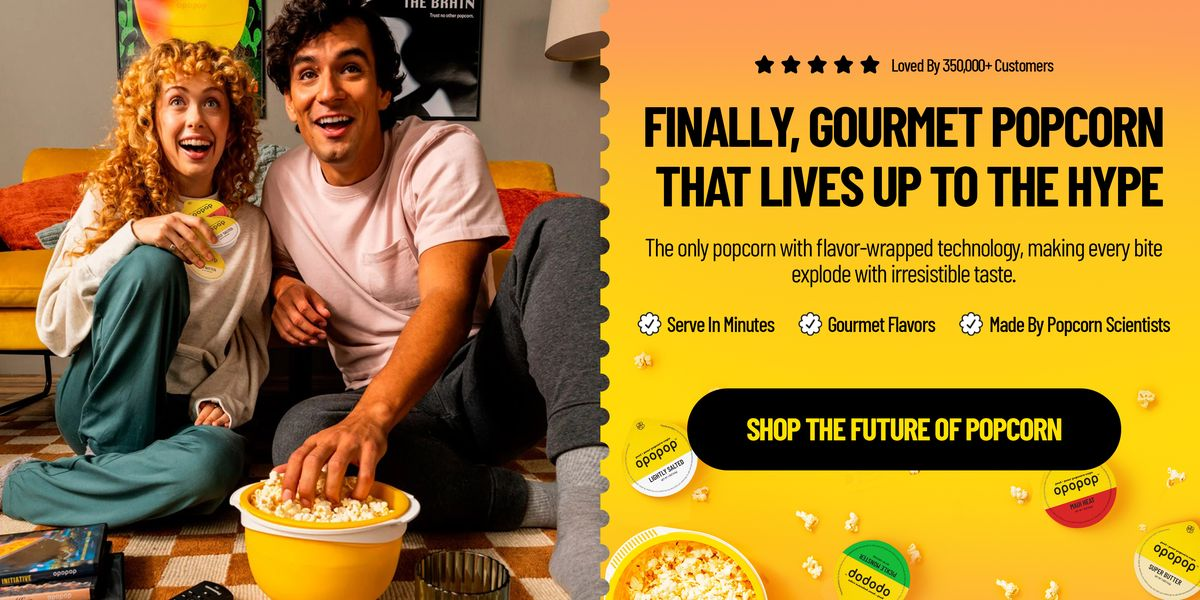
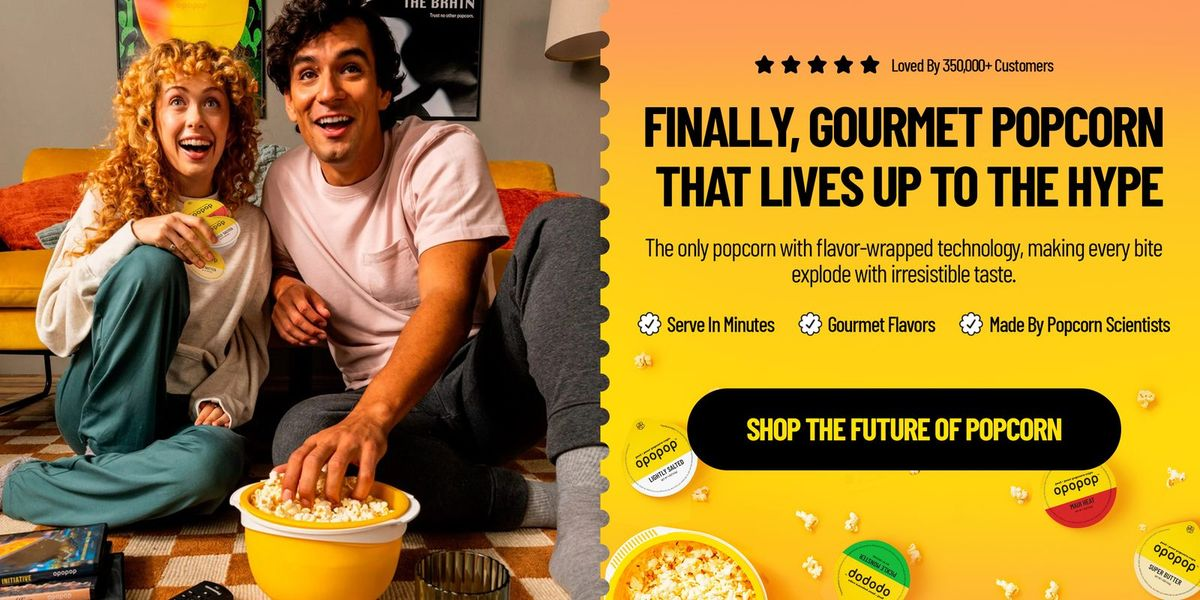
Apply speed optimizations to new blog posts; rebuild image variants
After merging main: the 8 newly published blog posts get the same
treatment as every other page (no GSAP, deferred main.js?v=3,
non-blocking Google Fonts, html.js class, style.css?v=3). Responsive
WebP/JPEG variants for dormeo, mam, natures-answer and opopop are
rebuilt from main's recompressed originals so the two never drift.

Claude-Session: https://claude.ai/code/session_01LJQn5neykbJh5h4xGdqTjh

diff --git a/blog/amazon-black-friday-cyber-monday-deadlines.html b/blog/amazon-black-friday-cyber-monday-deadlines.html
@@ -3,6 +3,7 @@
 <head>
 <meta charset="UTF-8">
 <meta name="viewport" content="width=device-width, initial-scale=1.0">
+<script>document.documentElement.classList.add('js');</script>
 
 <!-- Google tag (gtag.js) -->
 <script async src="https://www.googletagmanager.com/gtag/js?id=G-JSRFREK2J3"></script>
@@ -108,10 +109,12 @@ src="https://www.facebook.com/tr?id=779041874461329&ev=PageView&noscript=1"
 </script>
 <link rel="preconnect" href="https://fonts.googleapis.com">
 <link rel="preconnect" href="https://fonts.gstatic.com" crossorigin>
-<link href="https://fonts.googleapis.com/css2?family=Space+Grotesk:wght@500;600;700&family=Inter:wght@400;500;600;700&display=swap" rel="stylesheet">
+<link rel="preload" as="style" href="https://fonts.googleapis.com/css2?family=Space+Grotesk:wght@500;600;700&family=Inter:wght@400;500;600;700&display=swap">
+<link rel="stylesheet" href="https://fonts.googleapis.com/css2?family=Space+Grotesk:wght@500;600;700&family=Inter:wght@400;500;600;700&display=swap" media="print" onload="this.media='all'">
+<noscript><link rel="stylesheet" href="https://fonts.googleapis.com/css2?family=Space+Grotesk:wght@500;600;700&family=Inter:wght@400;500;600;700&display=swap"></noscript>
 <link rel="icon" type="image/svg+xml" href="../assets/brand/mark.svg">
 <link rel="icon" type="image/png" href="../assets/brand/favicon-32.png">
-<link rel="stylesheet" href="../css/style.css?v=2">
+<link rel="stylesheet" href="../css/style.css?v=3">
 </head>
 <body>
 
@@ -208,8 +211,6 @@ src="https://www.facebook.com/tr?id=779041874461329&ev=PageView&noscript=1"
   </div>
 </footer>
 
-<script src="https://cdnjs.cloudflare.com/ajax/libs/gsap/3.12.5/gsap.min.js"></script>
-<script src="https://cdnjs.cloudflare.com/ajax/libs/gsap/3.12.5/ScrollTrigger.min.js"></script>
-<script src="../js/main.js"></script>
+<script src="../js/main.js?v=3" defer></script>
 </body>
 </html>

diff --git a/blog/amazon-product-launch-honeymoon-period.html b/blog/amazon-product-launch-honeymoon-period.html
@@ -3,6 +3,7 @@
 <head>
 <meta charset="UTF-8">
 <meta name="viewport" content="width=device-width, initial-scale=1.0">
+<script>document.documentElement.classList.add('js');</script>
 
 <!-- Google tag (gtag.js) -->
 <script async src="https://www.googletagmanager.com/gtag/js?id=G-JSRFREK2J3"></script>
@@ -108,10 +109,12 @@ src="https://www.facebook.com/tr?id=779041874461329&ev=PageView&noscript=1"
 </script>
 <link rel="preconnect" href="https://fonts.googleapis.com">
 <link rel="preconnect" href="https://fonts.gstatic.com" crossorigin>
-<link href="https://fonts.googleapis.com/css2?family=Space+Grotesk:wght@500;600;700&family=Inter:wght@400;500;600;700&display=swap" rel="stylesheet">
+<link rel="preload" as="style" href="https://fonts.googleapis.com/css2?family=Space+Grotesk:wght@500;600;700&family=Inter:wght@400;500;600;700&display=swap">
+<link rel="stylesheet" href="https://fonts.googleapis.com/css2?family=Space+Grotesk:wght@500;600;700&family=Inter:wght@400;500;600;700&display=swap" media="print" onload="this.media='all'">
+<noscript><link rel="stylesheet" href="https://fonts.googleapis.com/css2?family=Space+Grotesk:wght@500;600;700&family=Inter:wght@400;500;600;700&display=swap"></noscript>
 <link rel="icon" type="image/svg+xml" href="../assets/brand/mark.svg">
 <link rel="icon" type="image/png" href="../assets/brand/favicon-32.png">
-<link rel="stylesheet" href="../css/style.css?v=2">
+<link rel="stylesheet" href="../css/style.css?v=3">
 </head>
 <body>
 
@@ -210,8 +213,6 @@ src="https://www.facebook.com/tr?id=779041874461329&ev=PageView&noscript=1"
   </div>
 </footer>
 
-<script src="https://cdnjs.cloudflare.com/ajax/libs/gsap/3.12.5/gsap.min.js"></script>
-<script src="https://cdnjs.cloudflare.com/ajax/libs/gsap/3.12.5/ScrollTrigger.min.js"></script>
-<script src="../js/main.js"></script>
+<script src="../js/main.js?v=3" defer></script>
 </body>
 </html>

diff --git a/blog/amazon-acos-vs-tacos-reporting.html b/blog/amazon-acos-vs-tacos-reporting.html
@@ -3,6 +3,7 @@
 <head>
 <meta charset="UTF-8">
 <meta name="viewport" content="width=device-width, initial-scale=1.0">
+<script>document.documentElement.classList.add('js');</script>
 
 <!-- Google tag (gtag.js) -->
 <script async src="https://www.googletagmanager.com/gtag/js?id=G-JSRFREK2J3"></script>
@@ -93,10 +94,12 @@ src="https://www.facebook.com/tr?id=779041874461329&ev=PageView&noscript=1"
 </script>
 <link rel="preconnect" href="https://fonts.googleapis.com">
 <link rel="preconnect" href="https://fonts.gstatic.com" crossorigin>
-<link href="https://fonts.googleapis.com/css2?family=Space+Grotesk:wght@500;600;700&family=Inter:wght@400;500;600;700&display=swap" rel="stylesheet">
+<link rel="preload" as="style" href="https://fonts.googleapis.com/css2?family=Space+Grotesk:wght@500;600;700&family=Inter:wght@400;500;600;700&display=swap">
+<link rel="stylesheet" href="https://fonts.googleapis.com/css2?family=Space+Grotesk:wght@500;600;700&family=Inter:wght@400;500;600;700&display=swap" media="print" onload="this.media='all'">
+<noscript><link rel="stylesheet" href="https://fonts.googleapis.com/css2?family=Space+Grotesk:wght@500;600;700&family=Inter:wght@400;500;600;700&display=swap"></noscript>
 <link rel="icon" type="image/svg+xml" href="../assets/brand/mark.svg">
 <link rel="icon" type="image/png" href="../assets/brand/favicon-32.png">
-<link rel="stylesheet" href="../css/style.css?v=2">
+<link rel="stylesheet" href="../css/style.css?v=3">
 </head>
 <body>
 
@@ -196,8 +199,6 @@ src="https://www.facebook.com/tr?id=779041874461329&ev=PageView&noscript=1"
   </div>
 </footer>
 
-<script src="https://cdnjs.cloudflare.com/ajax/libs/gsap/3.12.5/gsap.min.js"></script>
-<script src="https://cdnjs.cloudflare.com/ajax/libs/gsap/3.12.5/ScrollTrigger.min.js"></script>
-<script src="../js/main.js"></script>
+<script src="../js/main.js?v=3" defer></script>
 </body>
 </html>

diff --git a/blog/amazon-dsp-when-its-worth-it.html b/blog/amazon-dsp-when-its-worth-it.html
@@ -3,6 +3,7 @@
 <head>
 <meta charset="UTF-8">
 <meta name="viewport" content="width=device-width, initial-scale=1.0">
+<script>document.documentElement.classList.add('js');</script>
 
 <!-- Google tag (gtag.js) -->
 <script async src="https://www.googletagmanager.com/gtag/js?id=G-JSRFREK2J3"></script>
@@ -93,10 +94,12 @@ src="https://www.facebook.com/tr?id=779041874461329&ev=PageView&noscript=1"
 </script>
 <link rel="preconnect" href="https://fonts.googleapis.com">
 <link rel="preconnect" href="https://fonts.gstatic.com" crossorigin>
-<link href="https://fonts.googleapis.com/css2?family=Space+Grotesk:wght@500;600;700&family=Inter:wght@400;500;600;700&display=swap" rel="stylesheet">
+<link rel="preload" as="style" href="https://fonts.googleapis.com/css2?family=Space+Grotesk:wght@500;600;700&family=Inter:wght@400;500;600;700&display=swap">
+<link rel="stylesheet" href="https://fonts.googleapis.com/css2?family=Space+Grotesk:wght@500;600;700&family=Inter:wght@400;500;600;700&display=swap" media="print" onload="this.media='all'">
+<noscript><link rel="stylesheet" href="https://fonts.googleapis.com/css2?family=Space+Grotesk:wght@500;600;700&family=Inter:wght@400;500;600;700&display=swap"></noscript>
 <link rel="icon" type="image/svg+xml" href="../assets/brand/mark.svg">
 <link rel="icon" type="image/png" href="../assets/brand/favicon-32.png">
-<link rel="stylesheet" href="../css/style.css?v=2">
+<link rel="stylesheet" href="../css/style.css?v=3">
 </head>
 <body>
 
@@ -194,8 +197,6 @@ src="https://www.facebook.com/tr?id=779041874461329&ev=PageView&noscript=1"
   </div>
 </footer>
 
-<script src="https://cdnjs.cloudflare.com/ajax/libs/gsap/3.12.5/gsap.min.js"></script>
-<script src="https://cdnjs.cloudflare.com/ajax/libs/gsap/3.12.5/ScrollTrigger.min.js"></script>
-<script src="../js/main.js"></script>
+<script src="../js/main.js?v=3" defer></script>
 </body>
 </html>

diff --git a/blog/amazon-q4-ad-pacing-strategy.html b/blog/amazon-q4-ad-pacing-strategy.html
@@ -3,6 +3,7 @@
 <head>
 <meta charset="UTF-8">
 <meta name="viewport" content="width=device-width, initial-scale=1.0">
+<script>document.documentElement.classList.add('js');</script>
 
 <!-- Google tag (gtag.js) -->
 <script async src="https://www.googletagmanager.com/gtag/js?id=G-JSRFREK2J3"></script>
@@ -93,10 +94,12 @@ src="https://www.facebook.com/tr?id=779041874461329&ev=PageView&noscript=1"
 </script>
 <link rel="preconnect" href="https://fonts.googleapis.com">
 <link rel="preconnect" href="https://fonts.gstatic.com" crossorigin>
-<link href="https://fonts.googleapis.com/css2?family=Space+Grotesk:wght@500;600;700&family=Inter:wght@400;500;600;700&display=swap" rel="stylesheet">
+<link rel="preload" as="style" href="https://fonts.googleapis.com/css2?family=Space+Grotesk:wght@500;600;700&family=Inter:wght@400;500;600;700&display=swap">
+<link rel="stylesheet" href="https://fonts.googleapis.com/css2?family=Space+Grotesk:wght@500;600;700&family=Inter:wght@400;500;600;700&display=swap" media="print" onload="this.media='all'">
+<noscript><link rel="stylesheet" href="https://fonts.googleapis.com/css2?family=Space+Grotesk:wght@500;600;700&family=Inter:wght@400;500;600;700&display=swap"></noscript>
 <link rel="icon" type="image/svg+xml" href="../assets/brand/mark.svg">
 <link rel="icon" type="image/png" href="../assets/brand/favicon-32.png">
-<link rel="stylesheet" href="../css/style.css?v=2">
+<link rel="stylesheet" href="../css/style.css?v=3">
 </head>
 <body>
 
@@ -195,8 +198,6 @@ src="https://www.facebook.com/tr?id=779041874461329&ev=PageView&noscript=1"
   </div>
 </footer>
 
-<script src="https://cdnjs.cloudflare.com/ajax/libs/gsap/3.12.5/gsap.min.js"></script>
-<script src="https://cdnjs.cloudflare.com/ajax/libs/gsap/3.12.5/ScrollTrigger.min.js"></script>
-<script src="../js/main.js"></script>
+<script src="../js/main.js?v=3" defer></script>
 </body>
 </html>

diff --git a/blog/amazon-repeat-purchase-strategy.html b/blog/amazon-repeat-purchase-strategy.html
@@ -3,6 +3,7 @@
 <head>
 <meta charset="UTF-8">
 <meta name="viewport" content="width=device-width, initial-scale=1.0">
+<script>document.documentElement.classList.add('js');</script>
 
 <!-- Google tag (gtag.js) -->
 <script async src="https://www.googletagmanager.com/gtag/js?id=G-JSRFREK2J3"></script>
@@ -93,10 +94,12 @@ src="https://www.facebook.com/tr?id=779041874461329&ev=PageView&noscript=1"
 </script>
 <link rel="preconnect" href="https://fonts.googleapis.com">
 <link rel="preconnect" href="https://fonts.gstatic.com" crossorigin>
-<link href="https://fonts.googleapis.com/css2?family=Space+Grotesk:wght@500;600;700&family=Inter:wght@400;500;600;700&display=swap" rel="stylesheet">
+<link rel="preload" as="style" href="https://fonts.googleapis.com/css2?family=Space+Grotesk:wght@500;600;700&family=Inter:wght@400;500;600;700&display=swap">
+<link rel="stylesheet" href="https://fonts.googleapis.com/css2?family=Space+Grotesk:wght@500;600;700&family=Inter:wght@400;500;600;700&display=swap" media="print" onload="this.media='all'">
+<noscript><link rel="stylesheet" href="https://fonts.googleapis.com/css2?family=Space+Grotesk:wght@500;600;700&family=Inter:wght@400;500;600;700&display=swap"></noscript>
 <link rel="icon" type="image/svg+xml" href="../assets/brand/mark.svg">
 <link rel="icon" type="image/png" href="../assets/brand/favicon-32.png">
-<link rel="stylesheet" href="../css/style.css?v=2">
+<link rel="stylesheet" href="../css/style.css?v=3">
 </head>
 <body>
 
@@ -194,8 +197,6 @@ src="https://www.facebook.com/tr?id=779041874461329&ev=PageView&noscript=1"
   </div>
 </footer>
 
-<script src="https://cdnjs.cloudflare.com/ajax/libs/gsap/3.12.5/gsap.min.js"></script>
-<script src="https://cdnjs.cloudflare.com/ajax/libs/gsap/3.12.5/ScrollTrigger.min.js"></script>
-<script src="../js/main.js"></script>
+<script src="../js/main.js?v=3" defer></script>
 </body>
 </html>

diff --git a/blog/what-a-stockout-taught-me-about-amazon.html b/blog/what-a-stockout-taught-me-about-amazon.html
@@ -3,6 +3,7 @@
 <head>
 <meta charset="UTF-8">
 <meta name="viewport" content="width=device-width, initial-scale=1.0">
+<script>document.documentElement.classList.add('js');</script>
 
 <!-- Google tag (gtag.js) -->
 <script async src="https://www.googletagmanager.com/gtag/js?id=G-JSRFREK2J3"></script>
@@ -93,10 +94,12 @@ src="https://www.facebook.com/tr?id=779041874461329&ev=PageView&noscript=1"
 </script>
 <link rel="preconnect" href="https://fonts.googleapis.com">
 <link rel="preconnect" href="https://fonts.gstatic.com" crossorigin>
-<link href="https://fonts.googleapis.com/css2?family=Space+Grotesk:wght@500;600;700&family=Inter:wght@400;500;600;700&display=swap" rel="stylesheet">
+<link rel="preload" as="style" href="https://fonts.googleapis.com/css2?family=Space+Grotesk:wght@500;600;700&family=Inter:wght@400;500;600;700&display=swap">
+<link rel="stylesheet" href="https://fonts.googleapis.com/css2?family=Space+Grotesk:wght@500;600;700&family=Inter:wght@400;500;600;700&display=swap" media="print" onload="this.media='all'">
+<noscript><link rel="stylesheet" href="https://fonts.googleapis.com/css2?family=Space+Grotesk:wght@500;600;700&family=Inter:wght@400;500;600;700&display=swap"></noscript>
 <link rel="icon" type="image/svg+xml" href="../assets/brand/mark.svg">
 <link rel="icon" type="image/png" href="../assets/brand/favicon-32.png">
-<link rel="stylesheet" href="../css/style.css?v=2">
+<link rel="stylesheet" href="../css/style.css?v=3">
 </head>
 <body>
 
@@ -194,8 +197,6 @@ src="https://www.facebook.com/tr?id=779041874461329&ev=PageView&noscript=1"
   </div>
 </footer>
 
-<script src="https://cdnjs.cloudflare.com/ajax/libs/gsap/3.12.5/gsap.min.js"></script>
-<script src="https://cdnjs.cloudflare.com/ajax/libs/gsap/3.12.5/ScrollTrigger.min.js"></script>
-<script src="../js/main.js"></script>
+<script src="../js/main.js?v=3" defer></script>
 </body>
 </html>

diff --git a/blog/why-amazon-agency-retention-matters.html b/blog/why-amazon-agency-retention-matters.html
@@ -3,6 +3,7 @@
 <head>
 <meta charset="UTF-8">
 <meta name="viewport" content="width=device-width, initial-scale=1.0">
+<script>document.documentElement.classList.add('js');</script>
 
 <!-- Google tag (gtag.js) -->
 <script async src="https://www.googletagmanager.com/gtag/js?id=G-JSRFREK2J3"></script>
@@ -93,10 +94,12 @@ src="https://www.facebook.com/tr?id=779041874461329&ev=PageView&noscript=1"
 </script>
 <link rel="preconnect" href="https://fonts.googleapis.com">
 <link rel="preconnect" href="https://fonts.gstatic.com" crossorigin>
-<link href="https://fonts.googleapis.com/css2?family=Space+Grotesk:wght@500;600;700&family=Inter:wght@400;500;600;700&display=swap" rel="stylesheet">
+<link rel="preload" as="style" href="https://fonts.googleapis.com/css2?family=Space+Grotesk:wght@500;600;700&family=Inter:wght@400;500;600;700&display=swap">
+<link rel="stylesheet" href="https://fonts.googleapis.com/css2?family=Space+Grotesk:wght@500;600;700&family=Inter:wght@400;500;600;700&display=swap" media="print" onload="this.media='all'">
+<noscript><link rel="stylesheet" href="https://fonts.googleapis.com/css2?family=Space+Grotesk:wght@500;600;700&family=Inter:wght@400;500;600;700&display=swap"></noscript>
 <link rel="icon" type="image/svg+xml" href="../assets/brand/mark.svg">
 <link rel="icon" type="image/png" href="../assets/brand/favicon-32.png">
-<link rel="stylesheet" href="../css/style.css?v=2">
+<link rel="stylesheet" href="../css/style.css?v=3">
 </head>
 <body>
 
@@ -196,8 +199,6 @@ src="https://www.facebook.com/tr?id=779041874461329&ev=PageView&noscript=1"
   </div>
 </footer>
 
-<script src="https://cdnjs.cloudflare.com/ajax/libs/gsap/3.12.5/gsap.min.js"></script>
-<script src="https://cdnjs.cloudflare.com/ajax/libs/gsap/3.12.5/ScrollTrigger.min.js"></script>
-<script src="../js/main.js"></script>
+<script src="../js/main.js?v=3" defer></script>
 </body>
 </html>
